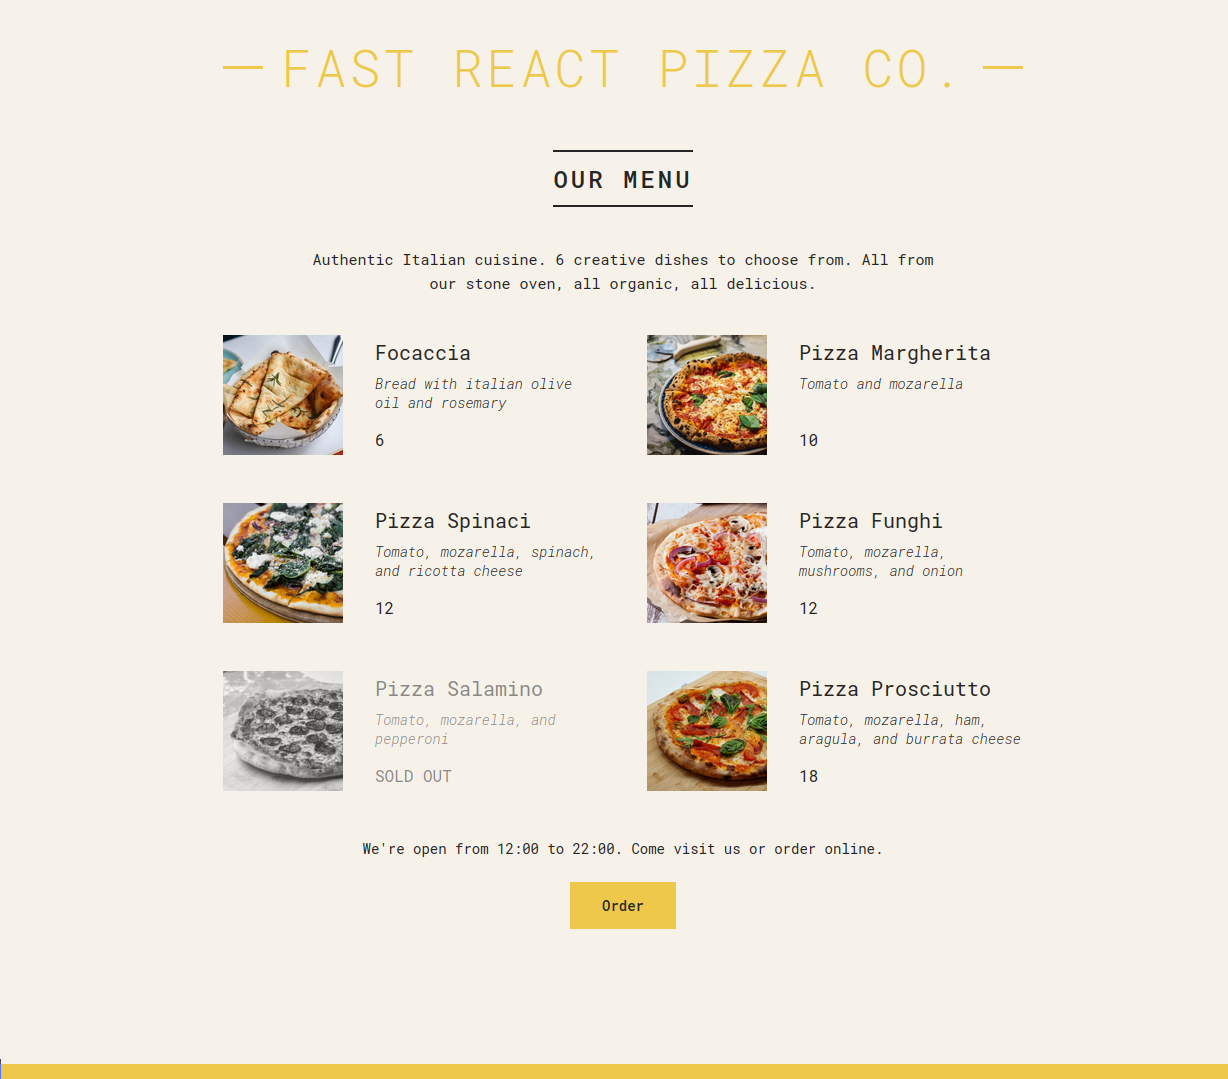
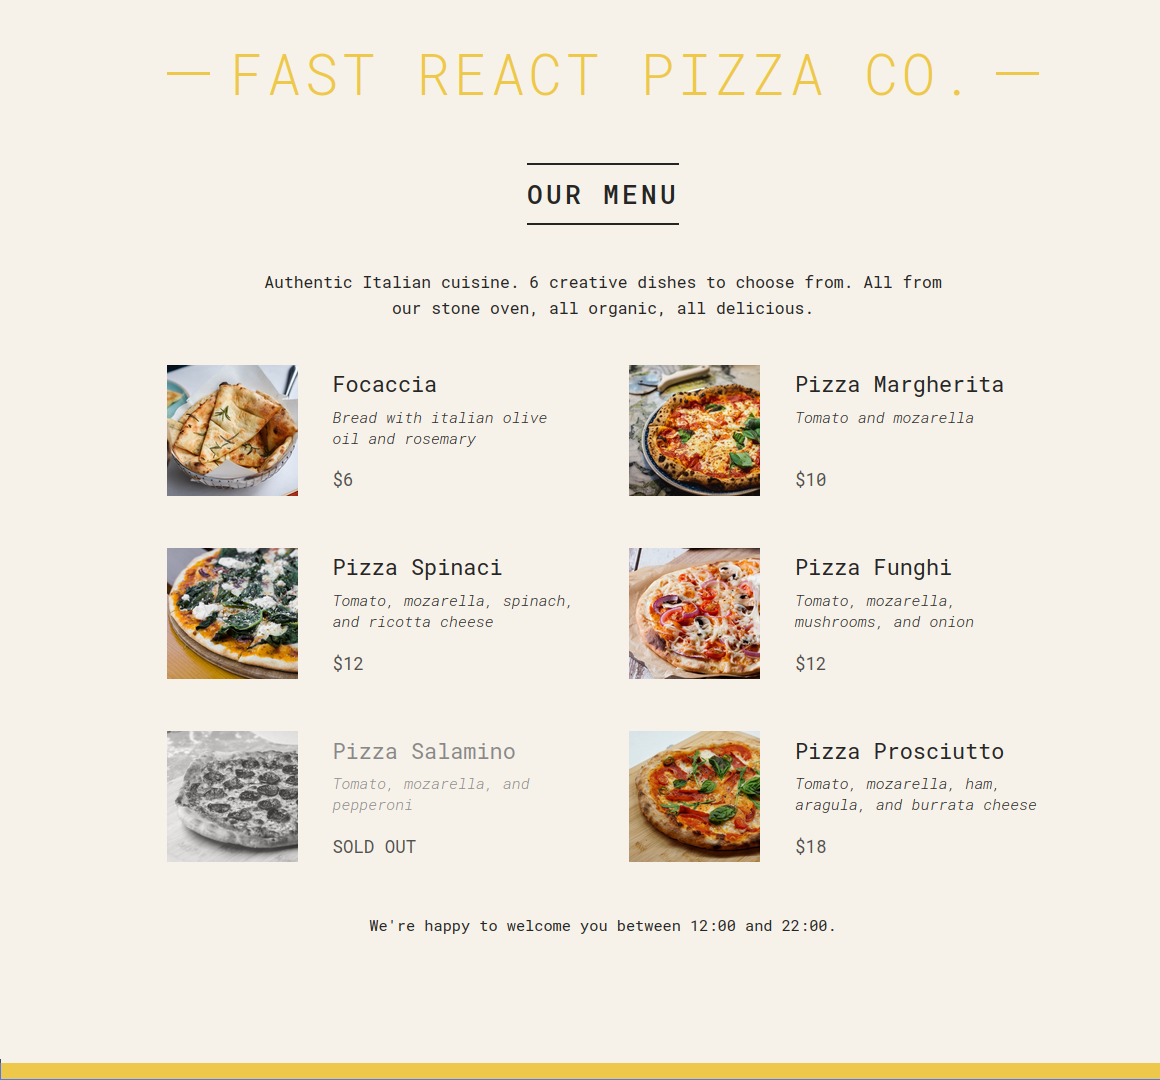
yes

diff --git a/src/index.js b/src/index.js
@@ -70,7 +70,6 @@ function Header() {
 
 function Menu() {
     const pizzas = pizzaData;
-    // const pizzas = [];
     const numPizzas = pizzas.length;
 
     return (
@@ -109,7 +108,9 @@ function Pizza({ pizzaObj }) {
             <div>
                 <h3>{pizzaObj.name}</h3>
                 <p>{pizzaObj.ingredients}</p>
-                <span>{pizzaObj.soldOut ? "SOLD OUT" : pizzaObj.price}</span>
+                <span style={{ color: "#51504e" }}>
+                    {pizzaObj.soldOut ? "SOLD OUT" : "$" + pizzaObj.price}
+                </span>
             </div>
         </li>
     );
